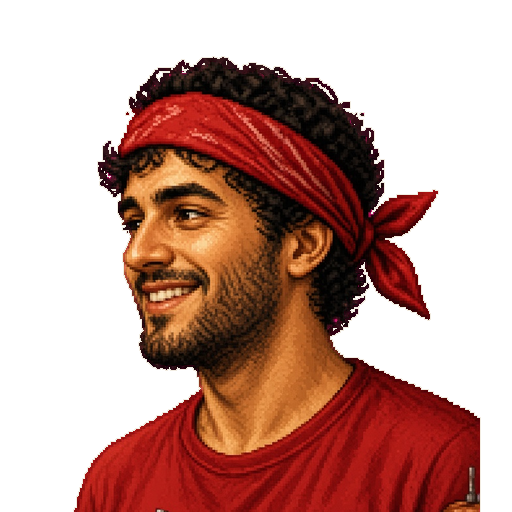
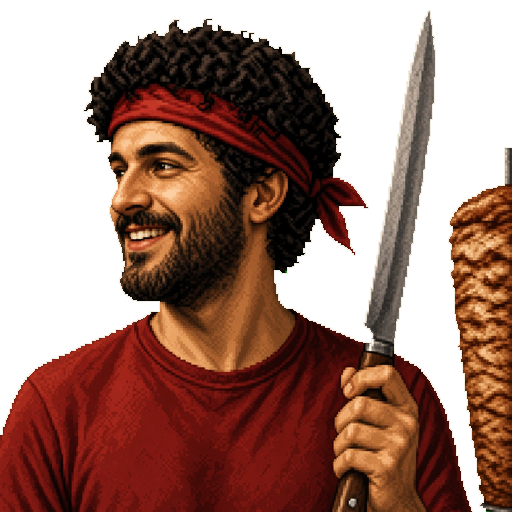
art: paczka P5b, trener, rekwizyty, winiety weekendów, mapa na karcie zasad
Winieta weekendu na pasku karty eventu (sześć kategorii na 22 linijki),
obraz mapy nad kartą „Jak się gra”, nowy trener i cztery portrety
z rekwizytami. SW cache v9.

diff --git a/src/ui/overlays.ts b/src/ui/overlays.ts
@@ -1,6 +1,6 @@
 import { avatarColor, type AvatarId, type EventId, type GameState, type NoticeId, type Player } from "../game";
 import { t } from "../i18n";
-import { artImg, eventArtUrl, noticeArtUrl, rivalMoodUrl, stampArtUrl, stampWinUrl, type RivalMood } from "./art";
+import { artImg, eventArtUrl, instructionArtUrl, noticeArtUrl, rivalMoodUrl, stampArtUrl, stampWinUrl, weekendArtUrl, type RivalMood, type WeekendArtId } from "./art";
 import { eventEffect, eventTitle, noticeEffect, noticeTitle } from "./copy";
 import { el } from "./dom";
 import { formatZl, interpolate } from "./format";
@@ -24,12 +24,12 @@ type CardInput = {
   who: string;
   title: string;
   effect: string;
-  /** Linijka weekendu pod efektem eventu. */
-  foot?: string;
+  /** Linijka weekendu pod efektem eventu, z winietą. */
+  foot?: { text: string; art: WeekendArtId };
 };
 
 /** Pokazuje kartę eventu w pełnym kadrze i czeka na zamknięcie (klik albo czas). */
-export function showEventCard(id: EventId, who: "you" | "bot", foot?: string): Promise<void> {
+export function showEventCard(id: EventId, who: "you" | "bot", foot?: { text: string; art: WeekendArtId }): Promise<void> {
   return showCard({
     art: eventArtUrl(id),
     who: who === "you" ? t("eventYours") : t("eventBots"),
@@ -65,10 +65,13 @@ function showCard(input: CardInput): Promise<void> {
     close.textContent = t("eventClose");
     band.append(whoLine, title, effect);
     if (input.foot !== undefined) {
-      const foot = el("p", "card-foot");
+      const foot = el("div", "card-foot");
+      foot.append(artImg(weekendArtUrl(input.foot.art), "card-foot-art"));
+      const copy = el("p", "card-foot-copy");
       const label = el("span", "card-foot-label");
       label.textContent = t("weekendLabel");
-      foot.append(label, document.createTextNode(` ${input.foot}`));
+      copy.append(label, document.createTextNode(` ${input.foot.text}`));
+      foot.append(copy);
       band.append(foot);
     }
     band.append(close);
@@ -164,6 +167,7 @@ export function showVictory(input: VictoryInput): void {
 export function showHowToCard(): Promise<void> {
   return new Promise((resolve) => {
     const panel = el("div", "howto");
+    panel.append(artImg(instructionArtUrl(), "howto-art"));
     const head = el("div", "howto-head");
     head.append(artImg(stampArtUrl(), "howto-stamp"));
     const title = el("h2", "howto-title");

diff --git a/src/ui/app.ts b/src/ui/app.ts
@@ -29,7 +29,7 @@ import { eventArtUrl } from "./art";
 import { buildBoard, locationName } from "./board";
 import { browserStore } from "./browser-store";
 import type { SaveStore } from "../game/save";
-import { actedMessage, actionLabel, companyName, diplomaName, effectLine, eventMessage, homeName, itemName, jobName, noticeTitle, placeDescription, rivalCard, weekGoal } from "./copy";
+import { actedMessage, actionLabel, companyName, diplomaName, effectLine, eventMessage, homeName, itemName, jobName, noticeTitle, placeDescription, rivalCard, weekendArt, weekGoal } from "./copy";
 import { sellPrice } from "../game";
 import { el } from "./dom";
 import { errorMessage } from "./errors";
@@ -69,9 +69,9 @@ function humanEffects(effects: readonly WeekEffect[]): string[] {
   return effects.filter((effect) => effect.kind !== "event").map(effectLine);
 }
 
-function weekendLine(effects: readonly WeekEffect[]): string | undefined {
+function weekendFoot(effects: readonly WeekEffect[]): { text: string; art: ReturnType<typeof weekendArt> } | undefined {
   const weekend = effects.find((effect) => effect.kind === "weekend");
-  return weekend === undefined ? undefined : effectLine(weekend);
+  return weekend === undefined || weekend.kind !== "weekend" ? undefined : { text: effectLine(weekend), art: weekendArt(weekend.id) };
 }
 
 function isMobile(): boolean {
@@ -509,7 +509,7 @@ export function renderApp(root: HTMLElement): void {
         text: eventMessage(human.lastEvent),
         art: eventArtUrl(human.lastEvent),
       });
-      await showEventCard(human.lastEvent, "you", weekendLine(state.lastWeekEffects));
+      await showEventCard(human.lastEvent, "you", weekendFoot(state.lastWeekEffects));
     }
     if (human?.lastNotice !== null && human?.lastNotice !== undefined) {
       await showNoticeCard(human.lastNotice, "you");

diff --git a/src/ui/copy.ts b/src/ui/copy.ts
@@ -16,7 +16,7 @@ import { FIRE_MARGIN, getJobDef, jobLocation, RELIABILITY_DECAY, RELIABILITY_PER
 import { classesDone, examChance, getDiplomaDef } from "../game/diplomas";
 import { wealth } from "../game/bank";
 import { getHomeDef } from "../game/homes";
-import type { NpcId, RivalMood } from "./art";
+import type { NpcId, RivalMood, WeekendArtId } from "./art";
 import type { LocationId } from "../game/catalog";
 import type { EngineError } from "../game/result";
 import type {
@@ -986,6 +986,44 @@ export function rivalCard(id: NoticeId): { mood: RivalMood; text: string } | nul
       return { mood: "angry", text: t("rivalCardKomornik") };
     case "przeprowadzka":
       return null;
+    default: {
+      const exhaustive: never = id;
+      return assertNever(exhaustive);
+    }
+  }
+}
+
+/** Kategoria winiety dla linijki weekendu. */
+export function weekendArt(id: WeekendId): WeekendArtId {
+  switch (id) {
+    case "spacerSkwer":
+    case "balkonKawa":
+    case "widokSkwer":
+    case "kanapaDrzemka":
+      return "spokoj";
+    case "piwoKowalski":
+    case "lodowkaImpreza":
+    case "goscieApartament":
+    case "sasiedziGrill":
+      return "impreza";
+    case "deszczCalyWeekend":
+    case "krysiaAwantura":
+      return "deszcz";
+    case "wycieczkaRower":
+    case "kinoNaRogu":
+      return "wycieczka";
+    case "serialMaraton":
+    case "plytaNaWiezy":
+    case "granieNoc":
+    case "encyklopediaQuiz":
+    case "krysiaCiasto":
+      return "dom";
+    case "fuchaKomputer":
+    case "pranieSasiadka":
+    case "abonament":
+    case "zakupyImpuls":
+    case "rodzinaObiad":
+      return "kasa";
     default: {
       const exhaustive: never = id;
       return assertNever(exhaustive);

diff --git a/src/styles/overlays.css b/src/styles/overlays.css
@@ -83,18 +83,41 @@
   font-variant-numeric: tabular-nums;
 }
 
+/* Pasek weekendu: winieta po lewej wtopiona w papier, tekst po prawej. */
 .card-foot {
-  margin: 0;
-  padding-top: 0.4rem;
+  position: relative;
+  display: grid;
+  grid-template-columns: 38% 1fr;
+  align-items: center;
+  gap: 0.5rem;
+  min-height: 3.4rem;
+  margin: 0.2rem -1rem 0;
+  padding: 0.35rem 1rem 0.35rem 0;
   border-top: 1px dashed rgb(43 38 34 / 0.25);
-  font-size: 0.9rem;
-  color: rgb(43 38 34 / 0.8);
+  overflow: hidden;
+}
+
+.card-foot-art {
+  width: 100%;
+  height: 3.4rem;
+  object-fit: cover;
+  object-position: left center;
+  mix-blend-mode: multiply;
+  mask-image: linear-gradient(to right, #000 55%, transparent 100%);
+  -webkit-mask-image: linear-gradient(to right, #000 55%, transparent 100%);
+}
+
+.card-foot-copy {
+  margin: 0;
+  font-size: 0.88rem;
+  line-height: 1.25;
+  color: rgb(43 38 34 / 0.85);
   text-wrap: pretty;
 }
 
 .card-foot-label {
   margin-right: 0.3em;
-  font-size: 0.68rem;
+  font-size: 0.66rem;
   font-weight: 700;
   letter-spacing: 0.06em;
   text-transform: uppercase;
@@ -259,6 +282,15 @@
   color: var(--ink);
   box-shadow: var(--shadow-paper);
   animation: card-in 420ms var(--ease);
+}
+
+.howto-art {
+  width: calc(100% + 3rem);
+  max-width: none;
+  aspect-ratio: 2 / 1;
+  margin: -1.5rem -1.5rem 0;
+  object-fit: cover;
+  border-radius: 6px 6px 0 0;
 }
 
 .howto-head {

diff --git a/src/ui/copy.test.ts b/src/ui/copy.test.ts
@@ -1,7 +1,8 @@
 import { describe, expect, it } from "vitest";
 import { ACTION_DEFS } from "../game/actions";
 import { createMatch } from "../game/state";
-import { actionCaption, actedMessage, eventMessage, jobLabel, npcLine, placeDescription, rivalCard, weekGoal, weekStatus } from "./copy";
+import { WEEKEND_DEFS } from "../game/weekends";
+import { actionCaption, actedMessage, eventMessage, jobLabel, npcLine, placeDescription, rivalCard, weekendArt, weekGoal, weekStatus } from "./copy";
 
 describe("copy", () => {
   it("puts time and wage on action captions", () => {
@@ -72,5 +73,11 @@ describe("copy", () => {
     expect(rivalCard("awans")?.mood).toBe("happy");
     expect(rivalCard("zwolnienie")?.mood).toBe("angry");
     expect(rivalCard("przeprowadzka")).toBeNull();
+  });
+
+  it("maps every weekend line to one of six vignettes", () => {
+    const seen = new Set(WEEKEND_DEFS.map((def) => weekendArt(def.id)));
+    expect(seen).toEqual(new Set(["spokoj", "impreza", "deszcz", "wycieczka", "dom", "kasa"]));
+    expect(weekendArt("piwoKowalski")).toBe("impreza");
   });
 });

diff --git a/src/ui/art.ts b/src/ui/art.ts
@@ -176,6 +176,17 @@ export type NpcId =
   | "barista"
   | "trener";
 
+export type WeekendArtId = "spokoj" | "impreza" | "deszcz" | "wycieczka" | "dom" | "kasa";
+
+/** Winieta na pasku weekendu karty eventu: sześć obrazków na 22 linijki. */
+export function weekendArtUrl(id: WeekendArtId): string {
+  return `./art/weekends/${id}.png`;
+}
+
+export function instructionArtUrl(): string {
+  return "./art/brand/instrukcja.png";
+}
+
 export function npcArtUrl(id: NpcId): string {
   return `./art/npc/${id}.png`;
 }

diff --git a/public/sw.js b/public/sw.js
@@ -1,4 +1,4 @@
-const CACHE_NAME = "mirkow-v8";
+const CACHE_NAME = "mirkow-v9";
 
 const PRECACHE = [
   "./",

diff --git a/docs/uwagi-p5b.md b/docs/uwagi-p5b.md
@@ -1,0 +1,18 @@
+# Uwagi do paczki P5b
+
+Data: 5 września 2026. Odniesienie: `brief-p5.md`. Paczka P5-A i P5-B w komplecie (12 plików), wszystko wpięte. Zero odrzuconych.
+
+## Co weszło bez zmian
+Trener (hantel, gwizdek, dres bez logo, uśmiech), klucz brygadzisty, kalkulator kasjerki, filiżanka baristy, nóż i rożen kebabiarza. Alfa czysta, żadnych otoczek. Mapa Mirkowa na karcie zasad: bez tekstu, bilet w paski, pionek, kawa.
+
+## Obrobione po mojej stronie
+- `npc/barista.png` i `npc/kebabiarz.png`: kilkadziesiąt zbłąkanych pikseli poza sylwetką (wyspy poniżej 40 px) usunięte automatycznie.
+- Winiety weekendów przyszły jako pełne prostokąty w lewych 55% kadru (scena z tłem, ostra pionowa krawędź), a nie jako wolny motyw na alfie. Tło `spokoj` i `impreza` jest jaśniejsze od papieru karty. Rozwiązanie w CSS: winieta mieszana z papierem (`mix-blend-mode: multiply`) i wygaszana maską w prawo, więc krawędzi nie widać. Bez zmian w plikach.
+
+## Drobne, nie blokują
+| Plik | Uwaga |
+|---|---|
+| `weekends/wycieczka.png`, `weekends/dom.png` | pełne scenki z wieloma detalami; na pasku 82 px czytają się gorzej niż `kasa` czy `impreza`, ale przechodzą |
+| `brand/instrukcja.png` | plansza na mapie ma 5 kafelków zamiast układu 4 × 3; jako ilustracja instrukcji działa, nie jest mapą 1:1 |
+
+P5-C (elektryk, linia włosów Kowalskiego) pozostaje opcjonalne. Grafiki na publikację są kompletne.

diff --git a/CZYTAJ-TO.md b/CZYTAJ-TO.md
@@ -42,6 +42,7 @@ Roboczy tytuł: **Symulator życia**. PWA `short_name`: **Mirków**. Ostateczna 
 | `docs/warianty-grafiki/` | archiwum prób stylu (nie używane w buildzie) |
 | `docs/przeglad-2026-09-05.md` | **przegląd wyglądu i plan zmian E1–E4** (czytać po tym pliku) |
 | `docs/brief-p2.md` | grafiki do zamówienia po E1–E2 (panorama, Kowalski, ikony akcji) |
+| `docs/uwagi-p5b.md` | uwagi do paczki P5b: komplet wpięty, winiety wtopione przez CSS |
 | `docs/brief-p5.md` | brief P5: trener od nowa, rekwizyty, winiety weekendów, karta instrukcji |
 | `docs/uwagi-p4b.md` | uwagi do poprawionej paczki P4b: odrzucony trener, usunięta obwódka, drobiazgi |
 | `docs/uwagi-p4.md` | uwagi do dostarczonej paczki P4: co poprawić w postaciach i minach Kowalskiego |

diff --git a/docs/brief-p5.md b/docs/brief-p5.md
@@ -1,5 +1,7 @@
 # Brief P5: trener od nowa, rekwizyty, winiety weekendów, karta instrukcji
 
+> **Dostarczone 5 września 2026 (P5b):** paczki P5-A i P5-B w komplecie, wpięte. Uwagi: `uwagi-p5b.md`. P5-C nadal opcjonalne.
+
 Data: 5 września 2026. Uzupełnia `brief-p4.md`, `uwagi-p4.md` i `uwagi-p4b.md`. Zamyka wszystkie otwarte pozycje grafik przed publikacją.
 
 ## Styl lock (bez zmian)
